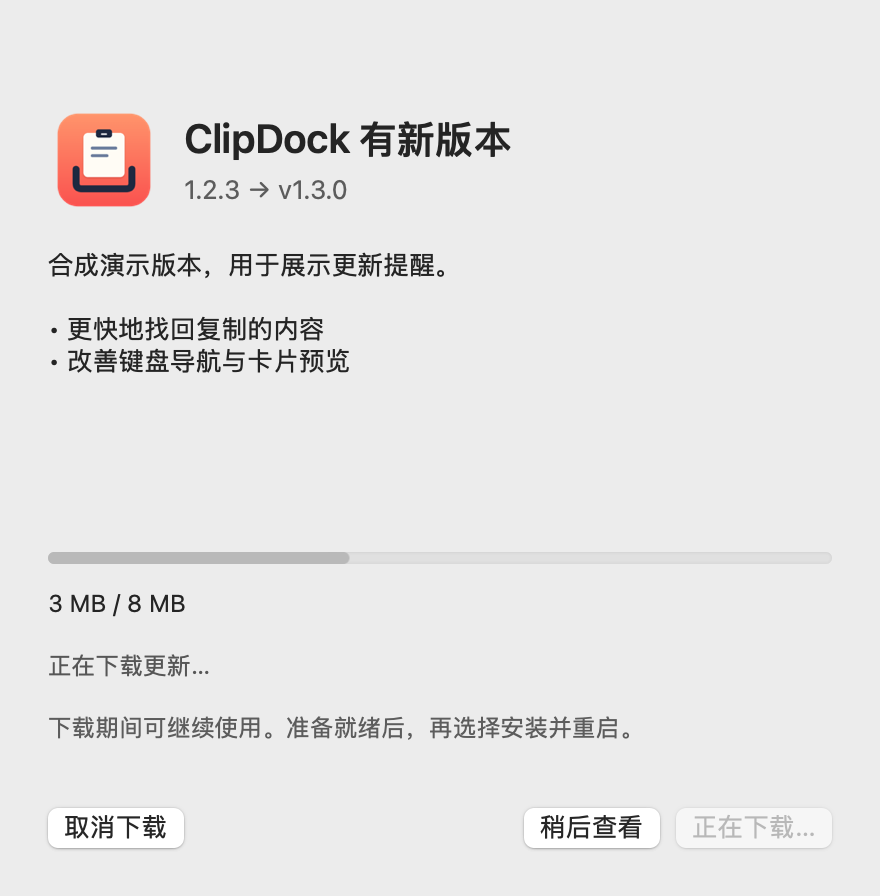
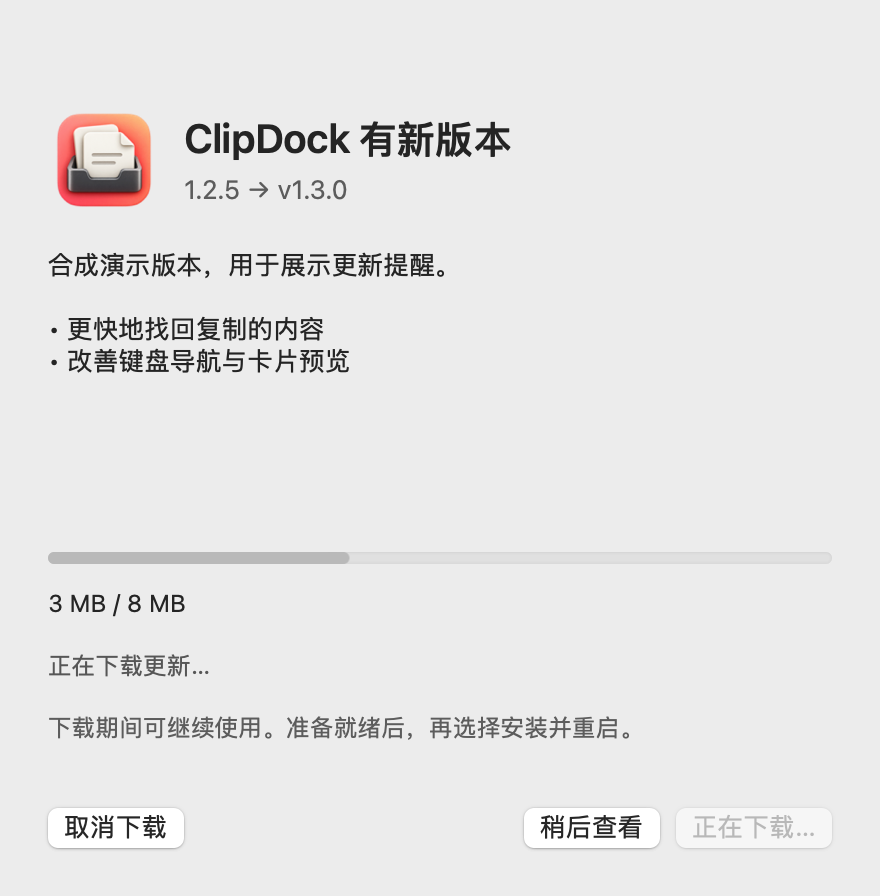
Refresh ClipDock artwork and simplify About for 1.2.5

Changed region(s): [[0.0614, 0.125, 0.1841, 0.2188], [0.2455, 0.1875, 0.2761, 0.2188]]

diff --git a/Scripts/make-icon.swift b/Scripts/make-icon.swift
@@ -1,4 +1,4 @@
-// Original ClipDock artwork: a clipped document resting in an open dock.
+// Package the generated app artwork; draw native template marks from its silhouette.
 import AppKit
 import Foundation
 
@@ -9,56 +9,12 @@ func rounded(_ rect: CGRect, radius: CGFloat) -> CGPath {
     CGPath(roundedRect: rect, cornerWidth: radius, cornerHeight: radius, transform: nil)
 }
 
-func renderMaster(size: CGFloat) -> NSImage {
-    let image = NSImage(size: NSSize(width: size, height: size))
-    image.lockFocus()
-    let ctx = NSGraphicsContext.current!.cgContext
-    ctx.scaleBy(x: size / 1024, y: size / 1024)
-    let body = CGRect(x: 84, y: 84, width: 856, height: 856)
-    ctx.saveGState()
-    ctx.addPath(rounded(body, radius: 190))
-    ctx.clip()
-    let colors = [CGColor(srgbRed: 0.98, green: 0.32, blue: 0.31, alpha: 1),
-                  CGColor(srgbRed: 1.00, green: 0.58, blue: 0.42, alpha: 1)] as CFArray
-    let gradient = CGGradient(colorsSpace: CGColorSpace(name: CGColorSpace.sRGB), colors: colors, locations: [0, 1])!
-    ctx.drawLinearGradient(gradient, start: CGPoint(x: 512, y: 84), end: CGPoint(x: 512, y: 940), options: [])
-    ctx.restoreGState()
-
-    let ink = CGColor(srgbRed: 0.12, green: 0.16, blue: 0.25, alpha: 1)
-    ctx.saveGState()
-    ctx.setShadow(offset: CGSize(width: 0, height: -10), blur: 20, color: CGColor(gray: 0, alpha: 0.13))
-    ctx.setFillColor(CGColor(srgbRed: 1, green: 0.99, blue: 0.96, alpha: 1))
-    ctx.addPath(rounded(CGRect(x: 322, y: 354, width: 380, height: 408), radius: 42))
-    ctx.fillPath()
-    ctx.restoreGState()
-
-    // The clip makes the document recognisable before it reaches the dock.
-    ctx.setFillColor(ink)
-    ctx.addPath(rounded(CGRect(x: 438, y: 718, width: 148, height: 76), radius: 24))
-    ctx.fillPath()
-    ctx.setFillColor(CGColor(srgbRed: 0.94, green: 0.95, blue: 0.96, alpha: 1))
-    ctx.addPath(rounded(CGRect(x: 484, y: 744, width: 56, height: 14), radius: 7))
-    ctx.fillPath()
-    ctx.setFillColor(CGColor(srgbRed: 0.43, green: 0.50, blue: 0.62, alpha: 1))
-    ctx.addPath(rounded(CGRect(x: 390, y: 608, width: 244, height: 28), radius: 14))
-    ctx.fillPath()
-    ctx.addPath(rounded(CGRect(x: 390, y: 538, width: 164, height: 28), radius: 14))
-    ctx.fillPath()
-
-    // One open U silhouette carries the 'Dock' in app and menu-bar artwork.
-    ctx.setStrokeColor(ink)
-    ctx.setLineWidth(64)
-    ctx.setLineCap(.round)
-    ctx.setLineJoin(.round)
-    ctx.move(to: CGPoint(x: 254, y: 426))
-    ctx.addLine(to: CGPoint(x: 254, y: 300))
-    ctx.addQuadCurve(to: CGPoint(x: 308, y: 246), control: CGPoint(x: 254, y: 246))
-    ctx.addLine(to: CGPoint(x: 716, y: 246))
-    ctx.addQuadCurve(to: CGPoint(x: 770, y: 300), control: CGPoint(x: 770, y: 246))
-    ctx.addLine(to: CGPoint(x: 770, y: 426))
-    ctx.strokePath()
-    image.unlockFocus()
-    return image
+let source = URL(fileURLWithPath: #filePath).deletingLastPathComponent().deletingLastPathComponent()
+    .appendingPathComponent("Resources/Artwork/ClipDock-Icon.png")
+let data = try Data(contentsOf: source)
+guard let master = NSImage(data: data), let bitmap = NSBitmapImageRep(data: data),
+      bitmap.pixelsWide == bitmap.pixelsHigh, bitmap.pixelsWide >= 1024, bitmap.hasAlpha else {
+    fatalError("App icon master must be a square transparent PNG of at least 1024 pixels")
 }
 
 func writePNG(_ image: NSImage, pixels: Int, path: String) throws {
@@ -68,7 +24,9 @@ func writePNG(_ image: NSImage, pixels: Int, path: String) throws {
     rep.size = NSSize(width: pixels, height: pixels)
     NSGraphicsContext.saveGraphicsState()
     NSGraphicsContext.current = NSGraphicsContext(bitmapImageRep: rep)
-    image.draw(in: NSRect(x: 0, y: 0, width: pixels, height: pixels))
+    NSGraphicsContext.current?.imageInterpolation = .high
+    let inset = CGFloat(pixels) * 0.035
+    image.draw(in: NSRect(x: inset, y: inset, width: CGFloat(pixels) - inset * 2, height: CGFloat(pixels) - inset * 2))
     NSGraphicsContext.restoreGraphicsState()
     try rep.representation(using: .png, properties: [:])!.write(to: URL(fileURLWithPath: path))
 }
@@ -78,37 +36,56 @@ func writeStatusIcon(paused: Bool, to url: URL) {
     let ctx = CGContext(consumer: CGDataConsumer(url: url as CFURL)!, mediaBox: &box, nil)!
     ctx.beginPDFPage(nil)
     ctx.setStrokeColor(CGColor(gray: 0, alpha: 1))
-    ctx.setLineWidth(1.65)
+    ctx.setLineWidth(1.5)
     ctx.setLineCap(.round)
     ctx.setLineJoin(.round)
-    ctx.move(to: CGPoint(x: 3.5, y: 9))
-    ctx.addLine(to: CGPoint(x: 3.5, y: 5))
-    ctx.addQuadCurve(to: CGPoint(x: 5.5, y: 3), control: CGPoint(x: 3.5, y: 3))
-    ctx.addLine(to: CGPoint(x: 16.5, y: 3))
-    ctx.addQuadCurve(to: CGPoint(x: 18.5, y: 5), control: CGPoint(x: 18.5, y: 3))
-    ctx.addLine(to: CGPoint(x: 18.5, y: 9))
+    ctx.move(to: CGPoint(x: 3.25, y: 9))
+    ctx.addLine(to: CGPoint(x: 3.25, y: 5.25))
+    ctx.addQuadCurve(to: CGPoint(x: 5, y: 3.5), control: CGPoint(x: 3.25, y: 3.5))
+    ctx.addLine(to: CGPoint(x: 17, y: 3.5))
+    ctx.addQuadCurve(to: CGPoint(x: 18.75, y: 5.25), control: CGPoint(x: 18.75, y: 3.5))
+    ctx.addLine(to: CGPoint(x: 18.75, y: 9))
     ctx.strokePath()
-    ctx.addPath(rounded(CGRect(x: 6.5, y: 7, width: 9, height: 12), radius: 1.4))
+
+    // The exposed back card and folded front corner identify the generated artwork.
+    ctx.move(to: CGPoint(x: 5.75, y: 9))
+    ctx.addLine(to: CGPoint(x: 5.75, y: 18))
+    ctx.addQuadCurve(to: CGPoint(x: 7.25, y: 19.5), control: CGPoint(x: 5.75, y: 19.5))
+    ctx.addLine(to: CGPoint(x: 12.75, y: 19.5))
     ctx.strokePath()
-    ctx.setFillColor(CGColor(gray: 0, alpha: 1))
-    ctx.addPath(rounded(CGRect(x: 9, y: 17.5, width: 4, height: 3), radius: 0.8))
-    ctx.fillPath()
+    ctx.move(to: CGPoint(x: 9.25, y: 7.5))
+    ctx.addQuadCurve(to: CGPoint(x: 7.75, y: 9), control: CGPoint(x: 7.75, y: 7.5))
+    ctx.addLine(to: CGPoint(x: 7.75, y: 16.5))
+    ctx.addQuadCurve(to: CGPoint(x: 9.25, y: 18), control: CGPoint(x: 7.75, y: 18))
+    ctx.addLine(to: CGPoint(x: 13.25, y: 18))
+    ctx.addLine(to: CGPoint(x: 16.75, y: 14.5))
+    ctx.addLine(to: CGPoint(x: 16.75, y: 9))
+    ctx.addQuadCurve(to: CGPoint(x: 15.25, y: 7.5), control: CGPoint(x: 16.75, y: 7.5))
+    ctx.closePath()
+    ctx.strokePath()
+    ctx.move(to: CGPoint(x: 13.25, y: 18))
+    ctx.addLine(to: CGPoint(x: 13.25, y: 15.75))
+    ctx.addQuadCurve(to: CGPoint(x: 14.5, y: 14.5), control: CGPoint(x: 13.25, y: 14.5))
+    ctx.addLine(to: CGPoint(x: 16.75, y: 14.5))
+    ctx.strokePath()
     if paused {
-        ctx.fill(CGRect(x: 8.6, y: 10.5, width: 1.5, height: 4))
-        ctx.fill(CGRect(x: 11.9, y: 10.5, width: 1.5, height: 4))
+        ctx.setFillColor(CGColor(gray: 0, alpha: 1))
+        for x in [CGFloat(10), CGFloat(13)] {
+            ctx.addPath(rounded(CGRect(x: x, y: 9.75, width: 1.3, height: 3.5), radius: 0.4))
+            ctx.fillPath()
+        }
     } else {
-        ctx.setLineWidth(1.3)
-        ctx.move(to: CGPoint(x: 9, y: 14))
-        ctx.addLine(to: CGPoint(x: 13, y: 14))
-        ctx.move(to: CGPoint(x: 9, y: 11))
-        ctx.addLine(to: CGPoint(x: 11.5, y: 11))
+        ctx.setLineWidth(1.2)
+        ctx.move(to: CGPoint(x: 10, y: 12.25))
+        ctx.addLine(to: CGPoint(x: 14.25, y: 12.25))
+        ctx.move(to: CGPoint(x: 10, y: 10.25))
+        ctx.addLine(to: CGPoint(x: 12.75, y: 10.25))
         ctx.strokePath()
     }
     ctx.endPDFPage()
     ctx.closePDF()
 }
 
-let master = renderMaster(size: 1024)
 let variants: [(Int, String)] = [
     (16, "icon_16x16"), (32, "icon_16x16@2x"), (32, "icon_32x32"), (64, "icon_32x32@2x"),
     (128, "icon_128x128"), (256, "icon_128x128@2x"), (256, "icon_256x256"), (512, "icon_256x256@2x"),
@@ -118,4 +95,4 @@ for (pixels, name) in variants { try writePNG(master, pixels: pixels, path: "\(o
 let buildDirectory = URL(fileURLWithPath: outDir).deletingLastPathComponent()
 writeStatusIcon(paused: false, to: buildDirectory.appendingPathComponent("StatusIcon.pdf"))
 writeStatusIcon(paused: true, to: buildDirectory.appendingPathComponent("StatusIconPaused.pdf"))
-print("ClipDock app and template status icons written")
+print("ClipDock generated artwork packaged; folded-card template icons written")

diff --git a/Sources/Trove/UI/SettingsView.swift b/Sources/Trove/UI/SettingsView.swift
@@ -129,8 +129,6 @@ struct SettingsView: View {
     @ObservedObject private var updates = UpdateChecker.shared
     @LocalState private var accessibilityGranted = Paster.shared.hasAccessibility
     @LocalState private var tab: Tab = .general
-    @LocalState private var repositoryDraft = ""
-    @LocalState private var repositoryError: String?
 
     init(prefs: Preferences, store: Store, initialTab: Tab = .general) {
         self.prefs = prefs
@@ -213,7 +211,7 @@ struct SettingsView: View {
         }
         .frame(width: 680, height: 540)
         .background(Theme.windowBackground)
-        .onAppear { accessibilityGranted = Paster.shared.hasAccessibility; repositoryDraft = prefs.updateRepository }
+        .onAppear { accessibilityGranted = Paster.shared.hasAccessibility }
         .onReceive(NotificationCenter.default.publisher(for: .clipdockShowUpdates)) { _ in tab = .about }
         .onReceive(NotificationCenter.default.publisher(for: NSApplication.didBecomeActiveNotification)) { _ in
             accessibilityGranted = Paster.shared.hasAccessibility
@@ -524,23 +522,6 @@ struct SettingsView: View {
                 .font(.system(size: 12))
             Text("发现新版本时提醒；在 App 内下载、校验并安装重启。")
                 .font(.system(size: 11)).foregroundStyle(.primary.opacity(0.72))
-            HStack(spacing: 8) {
-                TextField("GitHub 仓库：owner/repository", text: $repositoryDraft)
-                    .textFieldStyle(.roundedBorder).font(.system(size: 12))
-                    .accessibilityLabel("GitHub 更新仓库")
-                Button("应用") {
-                    if let repository = GitHubRepository(repositoryDraft) {
-                        prefs.updateRepository = repository.slug
-                        repositoryDraft = repository.slug
-                        repositoryError = nil
-                    } else { repositoryError = "请输入 owner/repository 或 github.com 仓库的 HTTPS 地址。" }
-                }
-                .disabled(repositoryDraft == prefs.updateRepository)
-            }
-            .disabled(updates.installationInProgress)
-            if let repositoryError {
-                Text(repositoryError).font(.system(size: 11)).foregroundStyle(.red)
-            }
             Divider().padding(.vertical, 8)
 
             HStack {

diff --git a/Resources/Artwork/PROMPTS.md b/Resources/Artwork/PROMPTS.md
@@ -1,0 +1,18 @@
+# ClipDock icon generation prompts
+
+Generated with the built-in image_gen tool. The shipping PNG is the unmodified generated raster; Scripts/make-icon.swift only resamples it into native icon sizes with optical padding. Menu-bar artwork is separately drawn as template PDF line art from the same folded-card and dock silhouette.
+
+## Initial generation
+
+Use case: logo-brand.
+Asset type: production macOS application icon for ClipDock, a native clipboard-history utility.
+Create one exceptionally polished, original icon master, square 1024 by 1024. Show a small stack of two captured ivory-white cards seated in an open graphite docking tray, a clear memorable silhouette expressing saved copies returning to a dock. The front card has a clean folded upper-right corner, gently rounded edges and only two short recessed content strokes. The rear card is subtly offset upward and left to express clipboard history. Remove the old office-clipboard top clip; the metaphor is captured digital cards, not a clipboard board.
+Art direction: premium macOS icon craftsmanship, tactile sculpted depth and precise bevels, satin anodized graphite metal for the low open-U tray, warm ivory paper/ceramic cards. Restrained material realism with soft top-left studio light, credible contact shadows, fine edge highlights and calm depth; no toy-like thick plastic or cartoon outlines.
+Keep continuity with ClipDock's warm coral/peach and dark ink identity: a softly shaded coral-to-peach rounded-square icon tile, ivory cards, deep graphite dock. Compose the symbol large and balanced, immediately recognizable at 32 pixels. A near-frontal view with only very mild perspective, strong uncluttered silhouette and generous separation of parts.
+The rounded-square tile occupies about 84 percent of the canvas with even optical margins. Genuine transparent alpha outside the rounded-square tile; preserve clean smooth alpha edges, no white backdrop, no checkerboard painted into the image. No additional outer frame, no presentation board, no captions, no typography, no letters, no watermark, no extra objects. Output a single finished icon, not variants or a mockup.
+
+## Alpha refinement
+
+Reference: the initial generated image.
+
+Edit this app icon only to make its alpha boundary production-ready. Preserve the exact design, coral/peach tile, ivory folded cards, graphite docking tray, materials, lighting, proportions and details inside the tile. Remove ALL stray yellow/red speckles and detached pixels outside the rounded-square tile. The surrounding canvas must be completely transparent alpha, including the entire top margin and corners. Give the rounded-square tile clean smoothly antialiased edges with no colored fringe or exterior glow. Recenter the unchanged icon with an even transparent margin so the tile occupies about 84% of a square canvas, suitable for a macOS app icon. Keep all internal image quality and tactile depth. Do not add objects, text, symbols, frames, or a visible background. Output one square finished transparent PNG.

diff --git a/CONTRIBUTING.md b/CONTRIBUTING.md
@@ -73,7 +73,15 @@ python3 Scripts/check-updater.py /tmp/clipdock-updater-check
 
 2026-10-22：用户完成正式1.2.3（6）到1.2.4（7）的更新并确认重启。随后被动核对安装版本、运行进程和完整应用签名，可执行文件与Release一致；升级前的全部条目、Pinboard、原始载荷及19项用户偏好均保留。界面操作与自动重启过程未独立观察。
 
+### 1.2.5 的图标与关于页验证
+
+核心检查45项、更新检查43项通过；最终安装包的应用签名、更新信息与安装包签名、SHA-256及解压内容均已核对。独立临时应用的更新集成测试通过4类用例：篡改更新信息、损坏安装包、取消下载，以及正常替换与重启，并保留合成资料与偏好。该低版本测试客户端使用当前更新器代码，不等同于已发布的旧版本。
+
+原生渲染覆盖图标16–256 pt、22 pt菜单栏记录/暂停状态，以及关于、引导和更新窗口的深浅色外观。个人安装版未被测试脚本替换；新版在真实菜单栏中的点击、实时桌面背景对比及个人安装版升级过程未独立验收。
+
 ## 演示与截图
+
+应用图标的生成模型源图与完整提示词位于 `Resources/Artwork/`。`Scripts/make-icon.swift` 仅为该源图生成原生尺寸和光学留白；菜单栏图标由同一套折角卡片与托盘轮廓绘制为22 pt模板PDF，包含记录和暂停两种状态。构建不需要重新调用生成模型。
 
 公开图片使用合成演示内容，不使用个人剪贴板历史。演示模式会建立独立的临时资料库；`--demo-update` 中的未来版本仅用于展示提醒。
 

diff --git a/CHANGELOG.md b/CHANGELOG.md
@@ -1,5 +1,11 @@
 # Changelog
 
+## 1.2.5
+
+- Replace the flat app icon with model-generated layered cards in a tactile dock, packaged at native macOS icon sizes.
+- Derive matching folded-card menu-bar template marks with distinct recording and paused variants.
+- Simplify About by removing the editable update-repository field and Apply button; release checking stays configured by the app.
+
 ## 1.2.4
 
 - Anchor the clipboard panel to the full display frame and show it above the Dock, including when the Dock is on a screen edge.

diff --git a/README.md b/README.md
@@ -1,5 +1,5 @@
 <p align="center">
-  <img src="docs/public/app-icon.png" width="112" height="112" alt="ClipDock 应用图标：停靠在托盘里的剪贴板">
+  <img src="docs/public/app-icon.png" width="112" height="112" alt="ClipDock 应用图标：停靠在金属托盘里的折角卡片">
 </p>
 
 <h1 align="center">ClipDock</h1>
